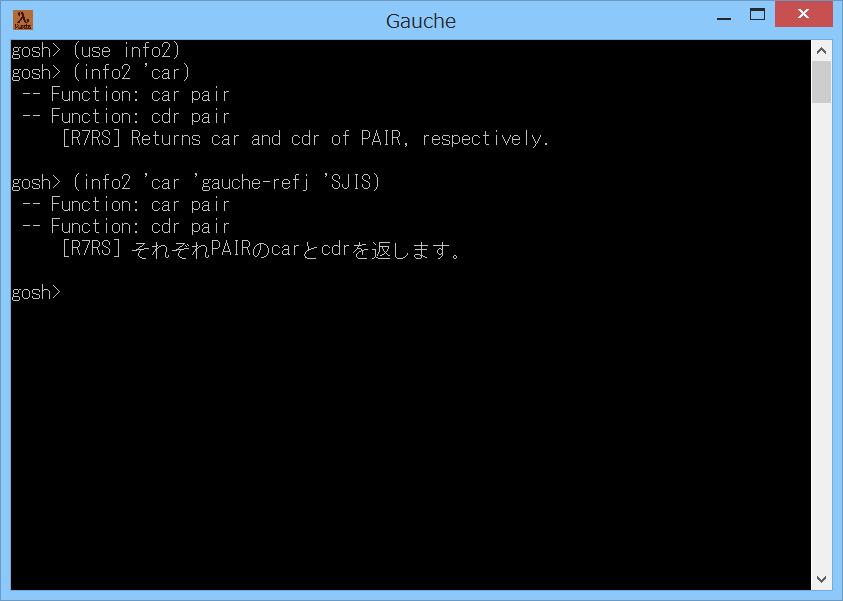
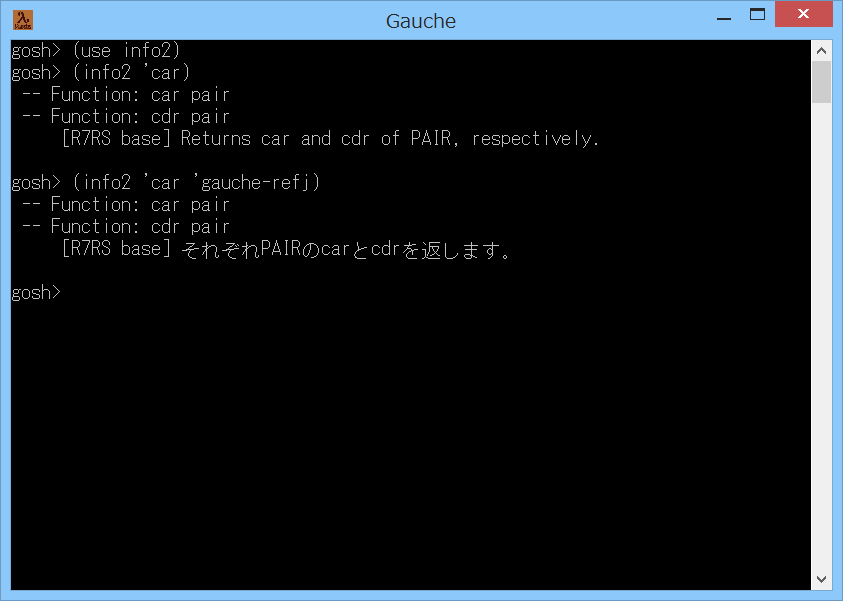
src chg v1.35

diff --git a/README.md b/README.md
@@ -17,7 +17,10 @@
 ```
   (use info2)                     ; モジュールをロードします
   (info2 'car)                    ; car 手続きの説明を英語で表示します
+  (info2 'car 'gauche-refj)       ; car 手続きの説明を日本語で表示します
+                                  ;   (Gauche v0.9.4, v0.9.5 では文字化けが発生します)
   (info2 'car 'gauche-refj 'SJIS) ; car 手続きの説明を日本語のシフトJISで表示します
+                                  ;   (Gauche v0.9.6 ではエラーになります)
 ```
 - info2 手続きの書式は以下の通りです。  
   `info2  name  [file]  [ces1]  [ces2]  [cache-reset]`
@@ -29,7 +32,8 @@
     読み込まれます。
 
   - 第3引数の ces1 には、出力する説明文の文字エンコーディングを指定します。  
-    例えば、Windowsのコンソールに日本語を出力する場合には 'SJIS を指定してください。  
+    例えば、Windows のコンソールに日本語を出力する場合には 'SJIS を指定してください。  
+    (Gauche v0.9.6 では、自動変換と競合するため、指定するとエラーになります)  
     第3引数に #f を指定すると、文字エンコーディングは未指定になります。  
     また、第3引数は省略可能です。省略した場合には #f を指定したことになります。
 
@@ -70,13 +74,19 @@
    (Gauche v0.9.5_pre1 で追加された機能)
 
 6. v1.11 で、環境変数 PAGER の値を毎回チェックするようにしました。  
-   例えば、Windowsの場合には、
+   例えば、Windows の場合には、
    ```
      (sys-setenv "PAGER" "more.com" #t)
    ```
    を実行すると、info2 手続きで1画面表示するごとに、キー入力を待つようにすることができます。  
-   (ただし、Windows の more.com コマンドは、シフトJIS 以外の文字コードを、  
-   正常に表示できないので注意してください)  
+   
+   ただし、Windows の more.com コマンドは、シフトJIS 以外の文字コードを、  
+   正常に表示できないので注意してください。  
+   例えば Gauche v0.9.5, v0.9.4 で日本語を表示する場合には、以下のようにします。  
+   `(info2 'cond 'gauche-refj 'SJIS)`  
+   また、Gauche v0.9.6 では、以下のようにします。  
+   `(info2 'cond 'gauche-refj 'SJIS #f)`  
+   
    (上記 sys-setenv の第3引数は、上書きの指定です。(忘れやすいので注意))
 
 7. 現状、Gauche v0.9.5_pre1 以後の info 手続きにある以下の機能については、未対応です。
@@ -136,6 +146,7 @@
 - 2017-9-11  v1.32 リダイレクト判定処理見直し
 - 2017-9-24  v1.33 Windowsのリダイレクト判定処理変更(port-attributesを使用)
 - 2018-7-8   v1.34 Gauche v0.9.6 の更新に追従
+- 2018-7-8   v1.35 コメント修正のみ
 
 
 (2018-7-8)
